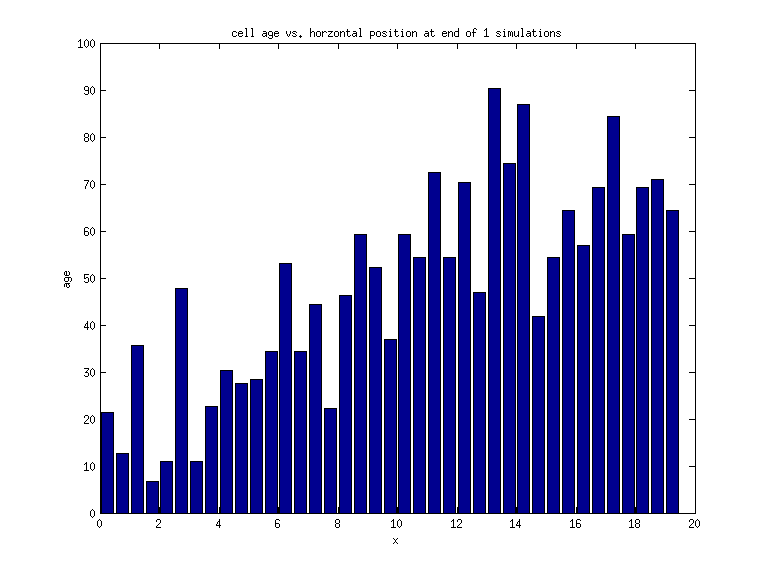
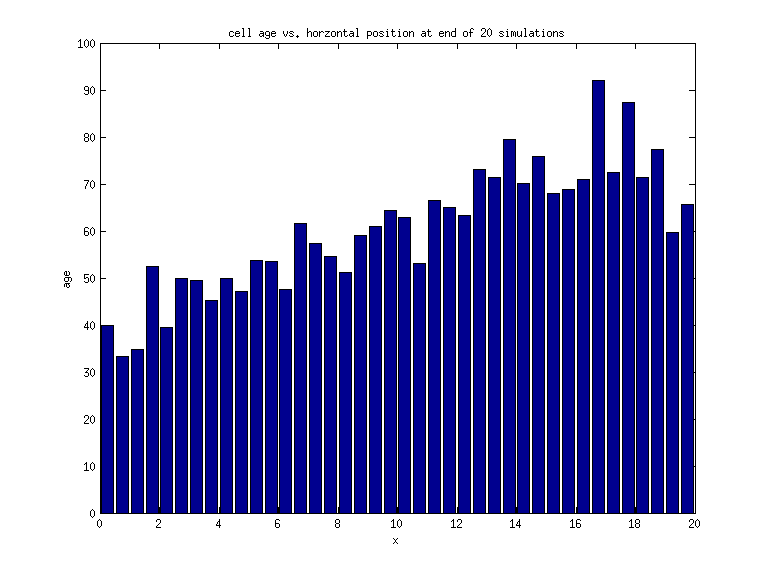
updated to latest commit before working

diff --git a/test/UtericBudSimulation/UtericBudSimulation.hpp b/test/UtericBudSimulation/UtericBudSimulation.hpp
@@ -114,6 +114,7 @@ public:
         
         unsigned simulation_time = 500;
         unsigned simulation_output_mult = 120;
+        double simulation_Dt = 1.0/200.0;
         
         double gforce_strength = 1.0; 
         double dforce_strength = 0.25; 
@@ -124,7 +125,7 @@ public:
         
         bool attachment = true;
         double attachment_probability = 0.5;
-        double detachment_probability = 0.5;
+        double detachment_probability = 1.0;
         double attachment_height = 0.02;
         double attached_damping_constant = 100.0;
         
@@ -196,6 +197,7 @@ public:
         OffLatticeSimulation<2> simulator(cell_population);
         simulator.SetOutputDirectory(output_directory);
         simulator.SetSamplingTimestepMultiple(simulation_output_mult);
+        simulator.SetDt(simulation_Dt);
         simulator.SetEndTime(simulation_time);
         simulator.SetOutputCellVelocities(true);
         simulator.SetOutputDivisionLocations(true);
@@ -274,9 +276,19 @@ public:
         
         /* Run Simulation and output runtime */
         simulator.Solve();
+        
         t2 = clock();
         float seconds = (((float)t2 - (float)t1) / CLOCKS_PER_SEC);
-        cout << "Runtime : " << seconds << " seconds" << endl;
+        if (seconds > 60)
+        {
+            float minutes = floor(seconds/60);
+            seconds = seconds - 60 * minutes;
+            cout << "Runtime : " << minutes << " minutes and " << seconds << " seconds" << endl;
+        }
+        else 
+        {
+            cout << "Runtime : " << seconds << " seconds" << endl;
+        }
         
     }
 };

diff --git a/MATLAB/ViewUtBudData.m b/MATLAB/ViewUtBudData.m
@@ -51,7 +51,7 @@ MeanPopulationData = PopulationData;
 
 if exist('testoutput/UtericBudSimulation_0/results_from_time_0/cellmutationstates.dat', 'file') ~= 0
     AttachmentData = importdata('testoutput/UtericBudSimulation_0/results_from_time_0/cellmutationstates.dat');
-    MeanAttachmentData = AttachmentData;
+    MeanAttachmentData = AttachmentData.data;
 end
 
 for k = 2:TotalJobs
@@ -60,7 +60,7 @@ for k = 2:TotalJobs
     
     if exist('testoutput/UtericBudSimulation_0/results_from_time_0/attachmentdurations.dat', 'file') ~= 0
         AttachmentData = importdata('testoutput/UtericBudSimulation_0/results_from_time_0/cellmutationstates.dat');
-        MeanAttachmentData = ((k-1)*MeanAttachmentData + AttachmentData)./k;
+        MeanAttachmentData = ((k-1)*MeanAttachmentData + AttachmentData.data)./k;
     end
 end
 
@@ -77,7 +77,7 @@ TotalCells = AvPopulationDataOut{4};
 figure('units', 'normalized', 'position', [.3 .3 0.12 0.4]);
 if exist('testoutput/UtericBudSimulation_0/results_from_time_0/attachmentdurations.dat', 'file') ~= 0
     plot(SimTime, TotalCells, 'k', SimTime, DiffCells, 'r',...
-    SimTime, TransitCells, 'b', SimTime, MeanAttachmentData.data(:,3),'m');
+    SimTime, TransitCells, 'b', SimTime, MeanAttachmentData(:,3),'m');
 legend('Total', 'Differentiated', 'Transit', 'Attached', 'Location', 'Best');
 else
     plot(SimTime, TotalCells, 'k', SimTime, DiffCells, 'r',...
